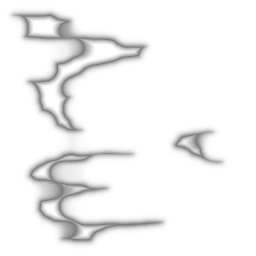
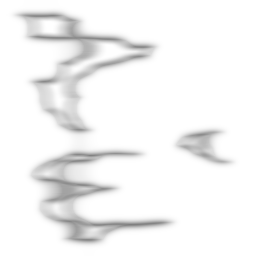
vacuum

diff --git a/Content/Projectiles/Weapons/Magic/GoomoireSuck.cs b/Content/Projectiles/Weapons/Magic/GoomoireSuck.cs
@@ -4,10 +4,12 @@ using Microsoft.Xna.Framework.Graphics;
 using ReLogic.Content;
 using ReLogic.Utilities;
 using System;
+using System.Linq;
 using Terraria;
 using Terraria.Audio;
 using Terraria.GameContent;
 using Terraria.Graphics;
+using Terraria.ID;
 using Terraria.ModLoader;
 
 namespace CalamityHunt.Content.Projectiles.Weapons.Magic
@@ -81,14 +83,14 @@ namespace CalamityHunt.Content.Projectiles.Weapons.Magic
 
             Projectile.localAI[0] += Projectile.ai[2];
 
-            Size = 600;
             Projectile.ai[2] = MathF.Sqrt(Utils.GetLerpValue(0, 50, Time, true) * Utils.GetLerpValue(10, 30, Projectile.timeLeft, true));
+            Size = 600;
             Projectile.spriteDirection = Owner.direction;
 
             if (Time < 10)
                 newRot = Projectile.rotation;
 
-            newRot = Utils.AngleLerp(newRot, Owner.AngleTo(Main.MouseWorld), 0.2f);
+            newRot = Utils.AngleLerp(newRot, Projectile.rotation, 0.05f);
 
             HandleSound();
             RibbonPhysics();
@@ -97,6 +99,36 @@ namespace CalamityHunt.Content.Projectiles.Weapons.Magic
             {
                 Projectile.frame = (Projectile.frame + 1) % 5;
                 Projectile.frameCounter = 0;
+            }
+
+            foreach (Gore gore in Main.gore)
+            {
+                Rectangle goreRec = new Rectangle((int)(gore.position.X - gore.scale * 10), (int)(gore.position.Y - gore.scale * 10), (int)(gore.scale * 20), (int)(gore.scale * 20));
+                if (Utils.IntersectsConeFastInaccurate(goreRec, Projectile.Center, Size, Projectile.rotation, MathHelper.Pi / 8f))
+                    gore.velocity = Vector2.Lerp(gore.velocity, gore.position.DirectionTo(Projectile.Center).SafeNormalize(Vector2.Zero) * 15, 0.2f);
+
+                if (gore.position.Distance(Projectile.Center) < 70)
+                    gore.scale *= 0.9f;
+                if (gore.position.Distance(Projectile.Center) < 40)
+                    gore.active = false;
+            }
+
+            foreach (Dust dust in Main.dust.Where(n => n.active && !n.noGravity))
+            {
+                Rectangle dustRec = new Rectangle((int)(dust.position.X - dust.scale * 3), (int)(dust.position.Y - dust.scale * 3), (int)(dust.scale * 6), (int)(dust.scale * 6));
+                if (Utils.IntersectsConeFastInaccurate(dustRec, Projectile.Center, Size, Projectile.rotation, MathHelper.Pi / 8f))
+                    dust.velocity = Vector2.Lerp(dust.velocity, dust.position.DirectionTo(Projectile.Center).SafeNormalize(Vector2.Zero) * 15, 0.2f);
+
+                if (dust.position.Distance(Projectile.Center) < 50)
+                    dust.scale *= 0.9f;                
+                if (dust.position.Distance(Projectile.Center) < 30)
+                    dust.active = false;
+            }            
+            
+            foreach (Item item in Main.item)
+            {
+                if (Utils.IntersectsConeFastInaccurate(item.Hitbox, Projectile.Center, Size, Projectile.rotation, MathHelper.Pi / 8f))
+                    item.velocity = Vector2.Lerp(item.velocity, item.DirectionTo(Projectile.Center).SafeNormalize(Vector2.Zero) * 15, 0.2f);
             }
         }
 
@@ -161,7 +193,7 @@ namespace CalamityHunt.Content.Projectiles.Weapons.Magic
 
         public override bool? Colliding(Rectangle projHitbox, Rectangle targetHitbox)
         {
-            return Utils.IntersectsConeFastInaccurate(targetHitbox, Projectile.Center, Size, newRot, MathHelper.Pi / 7f);
+            return Utils.IntersectsConeFastInaccurate(targetHitbox, Projectile.Center, Size, Projectile.rotation, MathHelper.Pi / 8f);
         }
 
         public override bool PreDraw(ref Color lightColor)
@@ -229,7 +261,7 @@ namespace CalamityHunt.Content.Projectiles.Weapons.Magic
             float[] rotations = new float[500];
             for (int i = 0; i < 500; i++)
             {
-                rotations[i] = Utils.AngleLerp(newRot, Projectile.rotation, MathF.Sqrt(i / 500f)) + MathF.Sin(Time * 0.2f - i / 120f) * 0.0f * (1f - i / 500f) * Projectile.ai[2];
+                rotations[i] = Utils.AngleLerp(newRot, Projectile.rotation, MathF.Sqrt(i / 500f)) + MathF.Sin(Time * 0.2f - i / 50f) * 0.1f * (1f - i / 500f) * Projectile.ai[2];
                 positions[i] = sparklePos + new Vector2((Size * 1.4f) * (i / 500f) * Projectile.ai[2], 0).RotatedBy(rotations[i]);
             }
 
@@ -264,9 +296,9 @@ namespace CalamityHunt.Content.Projectiles.Weapons.Magic
 
         public float StripWidth(float progress)
         {
-            float start = (float)Math.Pow(progress, 0.6f);
-            float grow = (float)Math.Pow(Projectile.ai[2], 2f);
-            return start * grow * Size * 0.66f;
+            float start = MathHelper.SmoothStep(MathF.Pow(progress, 0.6f) * 0.2f, 1, progress);
+            float grow = (float)Math.Pow(Projectile.ai[2], 3f);
+            return start * grow * Size * 0.5f;
         }
     }
 }

diff --git a/Content/Projectiles/Weapons/Ranged/TrailblazerFlame.cs b/Content/Projectiles/Weapons/Ranged/TrailblazerFlame.cs
@@ -101,7 +101,7 @@ namespace CalamityHunt.Content.Projectiles.Weapons.Ranged
             Rectangle frame = texture.Frame(1, 7, 0, Projectile.frame);
 
             Color backColor = new GradientColor(SlimeUtils.GoozOilColors, 0.2f, 0.2f).ValueAt(Projectile.localAI[0]) * 0.9f;
-            backColor.A /= 2;
+            backColor.A = 150;
             Color glowColor = Color.Lerp(new GradientColor(SlimeUtils.GoozOilColors, 0.2f, 0.2f).ValueAt(Projectile.localAI[0]), Color.White, 0.5f) * Utils.GetLerpValue(70, 50, Time, true);
             glowColor.A = 0;
             Color backDrawColor = backColor * Utils.GetLerpValue(80, 50, Time, true);
@@ -111,8 +111,9 @@ namespace CalamityHunt.Content.Projectiles.Weapons.Ranged
             {
                 Color trailColor = backDrawColor * (1f - i / 4f);
                 Vector2 off = Projectile.velocity * i * 4f * Utils.GetLerpValue(1, 15, Time, true);
-                Main.EntitySpriteDraw(texture, Projectile.Center - off - Main.screenPosition, frame, trailColor, Projectile.rotation + Main.GlobalTimeWrappedHourly * 9f * (1f + i / 4f) * -Projectile.direction, frame.Size() * 0.5f, Projectile.scale * 1.2f, 0, 0);
-                Main.EntitySpriteDraw(texture, Projectile.Center - off - Main.screenPosition, frame, drawColor * (1f - i / 4f), Projectile.rotation + Main.GlobalTimeWrappedHourly * 9f * -Projectile.direction, frame.Size() * 0.5f, Projectile.scale * 0.9f, 0, 0);
+                Main.EntitySpriteDraw(texture, Projectile.Center - off - Main.screenPosition, frame, trailColor, Projectile.rotation + Main.GlobalTimeWrappedHourly * 5f * (1f + i / 4f) * -Projectile.direction, frame.Size() * 0.5f, Projectile.scale * 1.3f, 0, 0);
+                Main.EntitySpriteDraw(texture, Projectile.Center - off - Main.screenPosition, frame, trailColor, Projectile.rotation + Main.GlobalTimeWrappedHourly * 9f * (1f + i / 4f) * -Projectile.direction, frame.Size() * 0.5f, Projectile.scale * 1.1f, 0, 0);
+                Main.EntitySpriteDraw(texture, Projectile.Center - off - Main.screenPosition, frame, drawColor * (1f - i / 4f) * 0.5f, Projectile.rotation + Main.GlobalTimeWrappedHourly * 9f * -Projectile.direction, frame.Size() * 0.5f, Projectile.scale, 0, 0);
             }
 
             Main.EntitySpriteDraw(texture, Projectile.Center - Main.screenPosition, frame, backDrawColor, Projectile.rotation + Main.GlobalTimeWrappedHourly * 9f * -Projectile.direction, frame.Size() * 0.5f, Projectile.scale * 1.1f, 0, 0);
